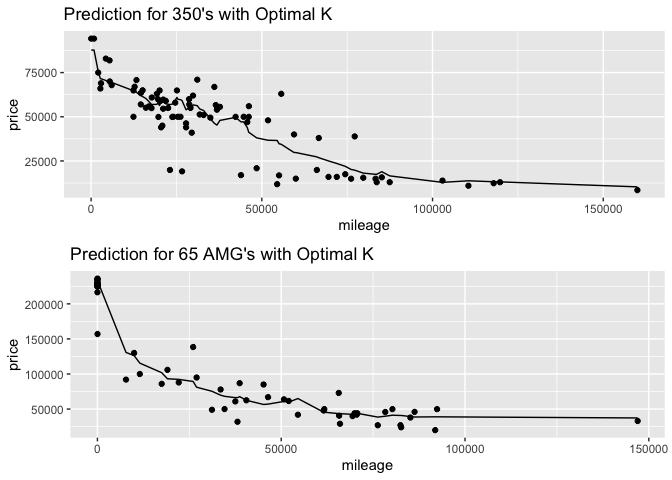
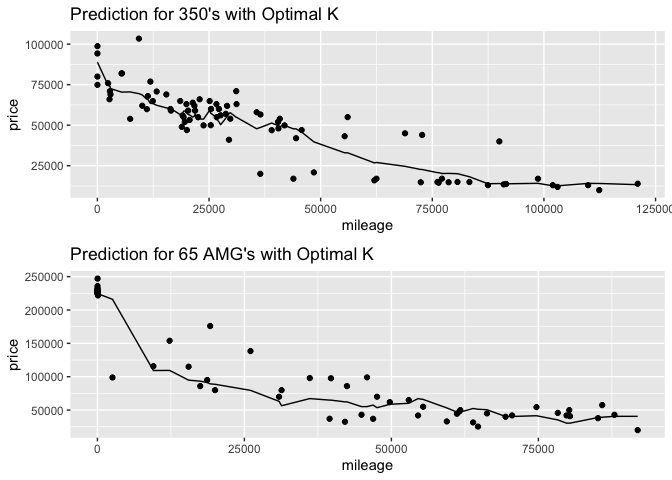
use gfm

diff --git a/Exercise_1.md b/Exercise_1.md
@@ -1,8 +1,3 @@
-Exercise - 1
-================
-Jipeng Cheng, Weidi Hou, Yu-Ting Huang
-2/8/2022
-
 # Data visualization: flights at ABIA
 
 ## Worst Destination Airports
@@ -34,8 +29,10 @@ follows **JFK airport** in New York. Considering that EWR also serves
 The NYC Metropolitan Area, it seems that choosing **New York** as
 destination is the real cause. Busy city and busy airports!
 <img src="Exercise_1_files/figure-gfm/fig1-1.png" title="Figure 1: Top 10 Worst Destination of 2008" alt="Figure 1: Top 10 Worst Destination of 2008" style="display: block; margin: auto;" />
+
 We can also visualize the top 10 airports on a U.S. map in Figure 2 with
 blue bar refering to the values of their “Bad Index”.
+
 <img src="Exercise_1_files/figure-gfm/fig2-1.png" title="Figure 2: Top 10 Worst Destination of 2008 on Map" alt="Figure 2: Top 10 Worst Destination of 2008 on Map" style="display: block; margin: auto;" />
 If you are also interested in if there are many minor delays in these
 bad flights, Figure 3 shows the proportions of all kinds of flights’
@@ -135,12 +132,12 @@ in competitor’s heights across the entire history of the Olympics.
 Thus, the graphs show that the optimal K for predicting 350’s prices
 with KNN method should be
 
-    ## [1] 17
+    ## [1] 15
 
 and the optimal K for predicting 65 AMG’s price with KNN method should
 be
 
-    ## [1] 15
+    ## [1] 9
 
 given they yield the smallest RMSEs respectively.
 <img src="Exercise_1_files/figure-gfm/fig10-1.png" title="Figure 10: Prediction vs. Testing Set" alt="Figure 10: Prediction vs. Testing Set" style="display: block; margin: auto;" />
